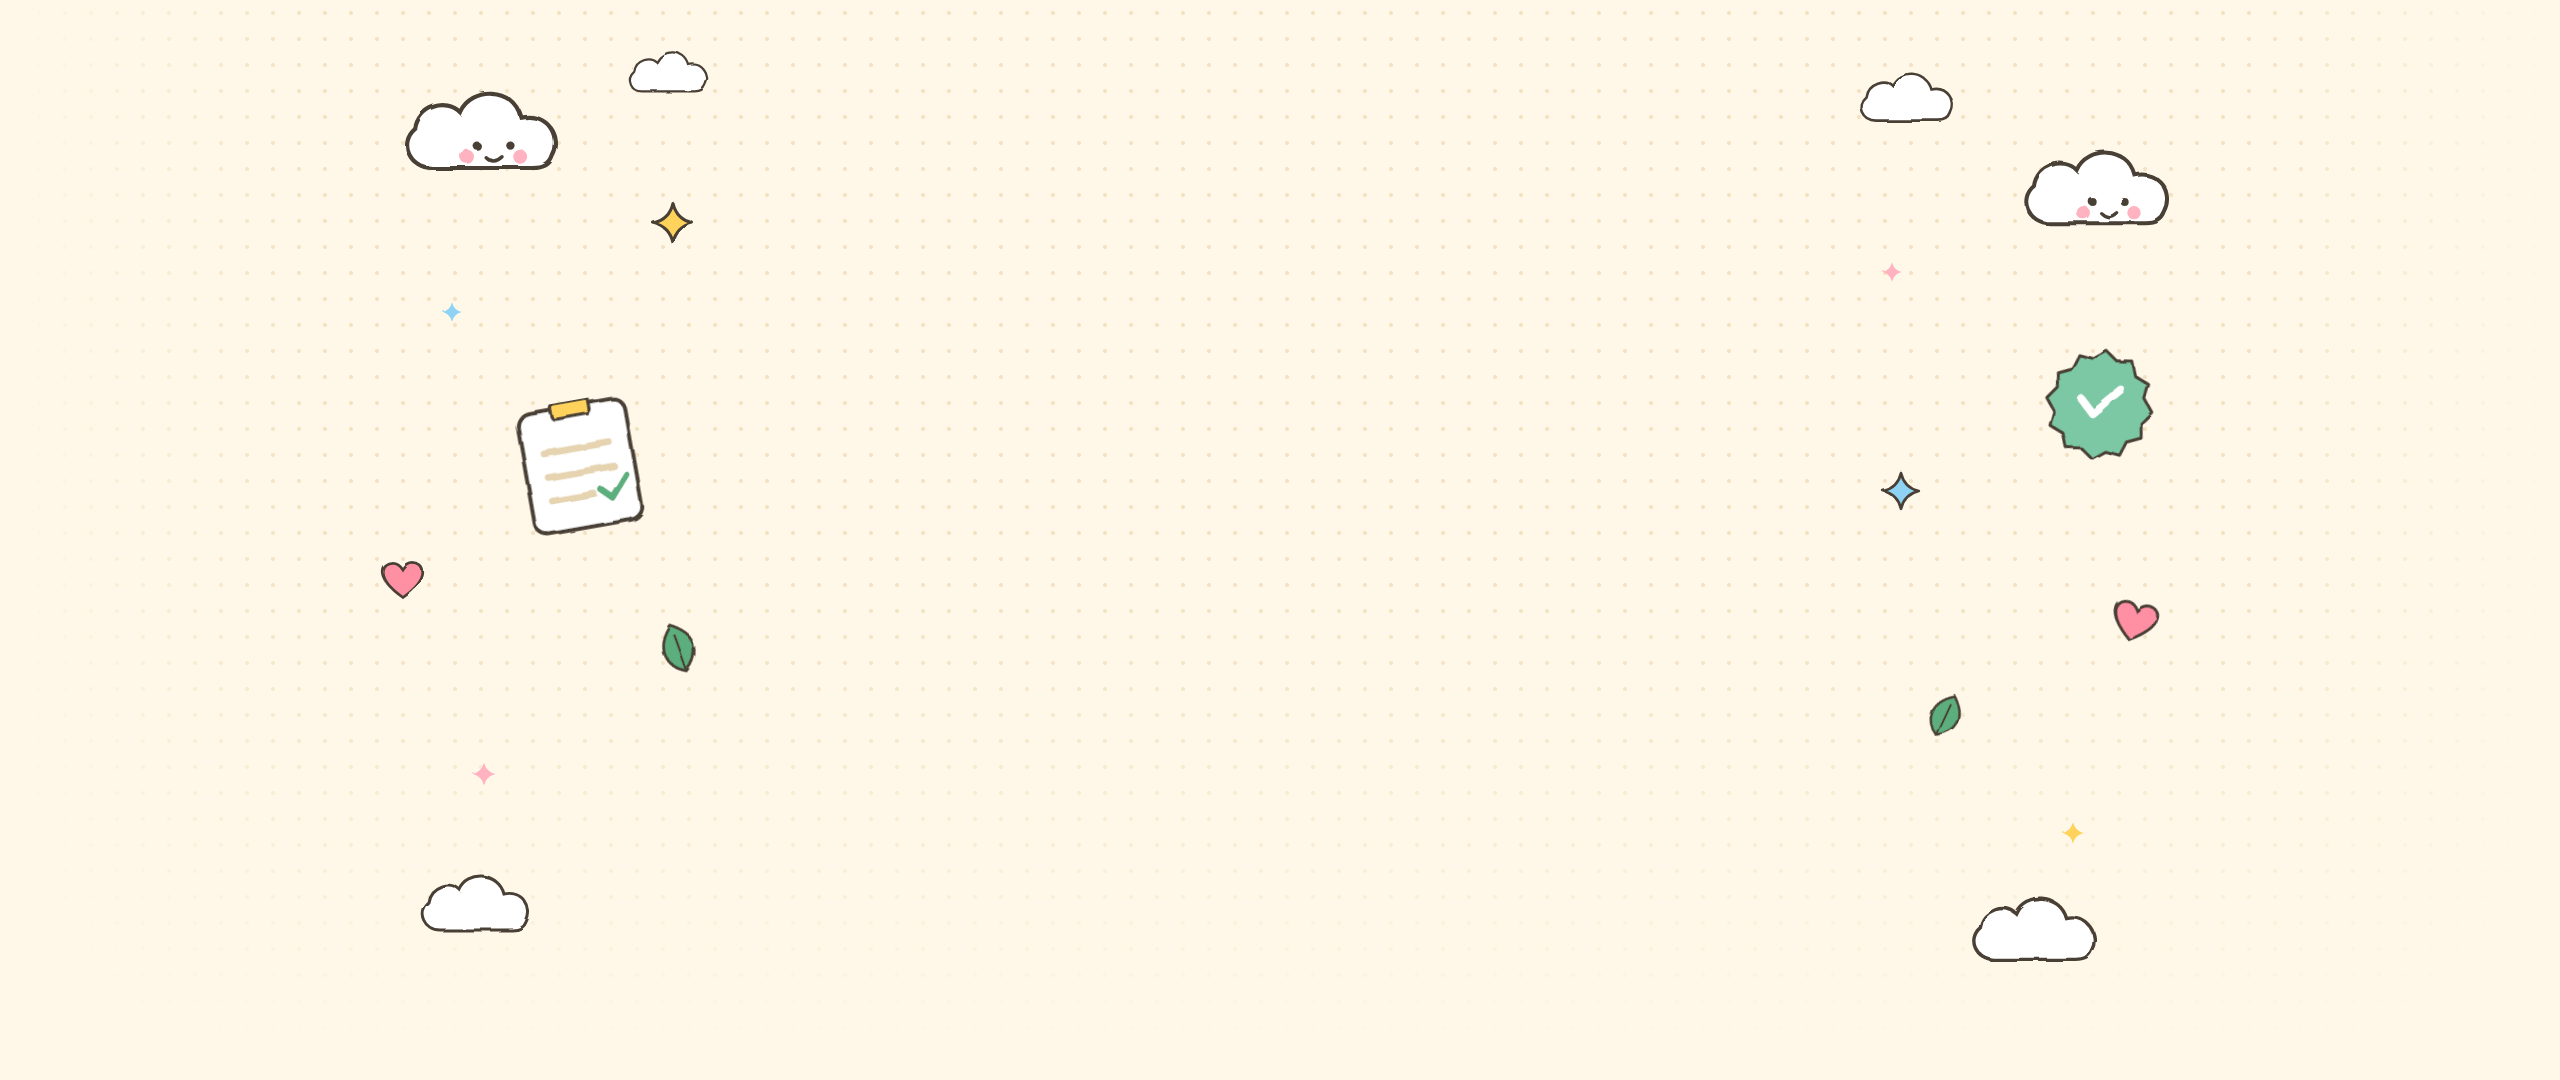
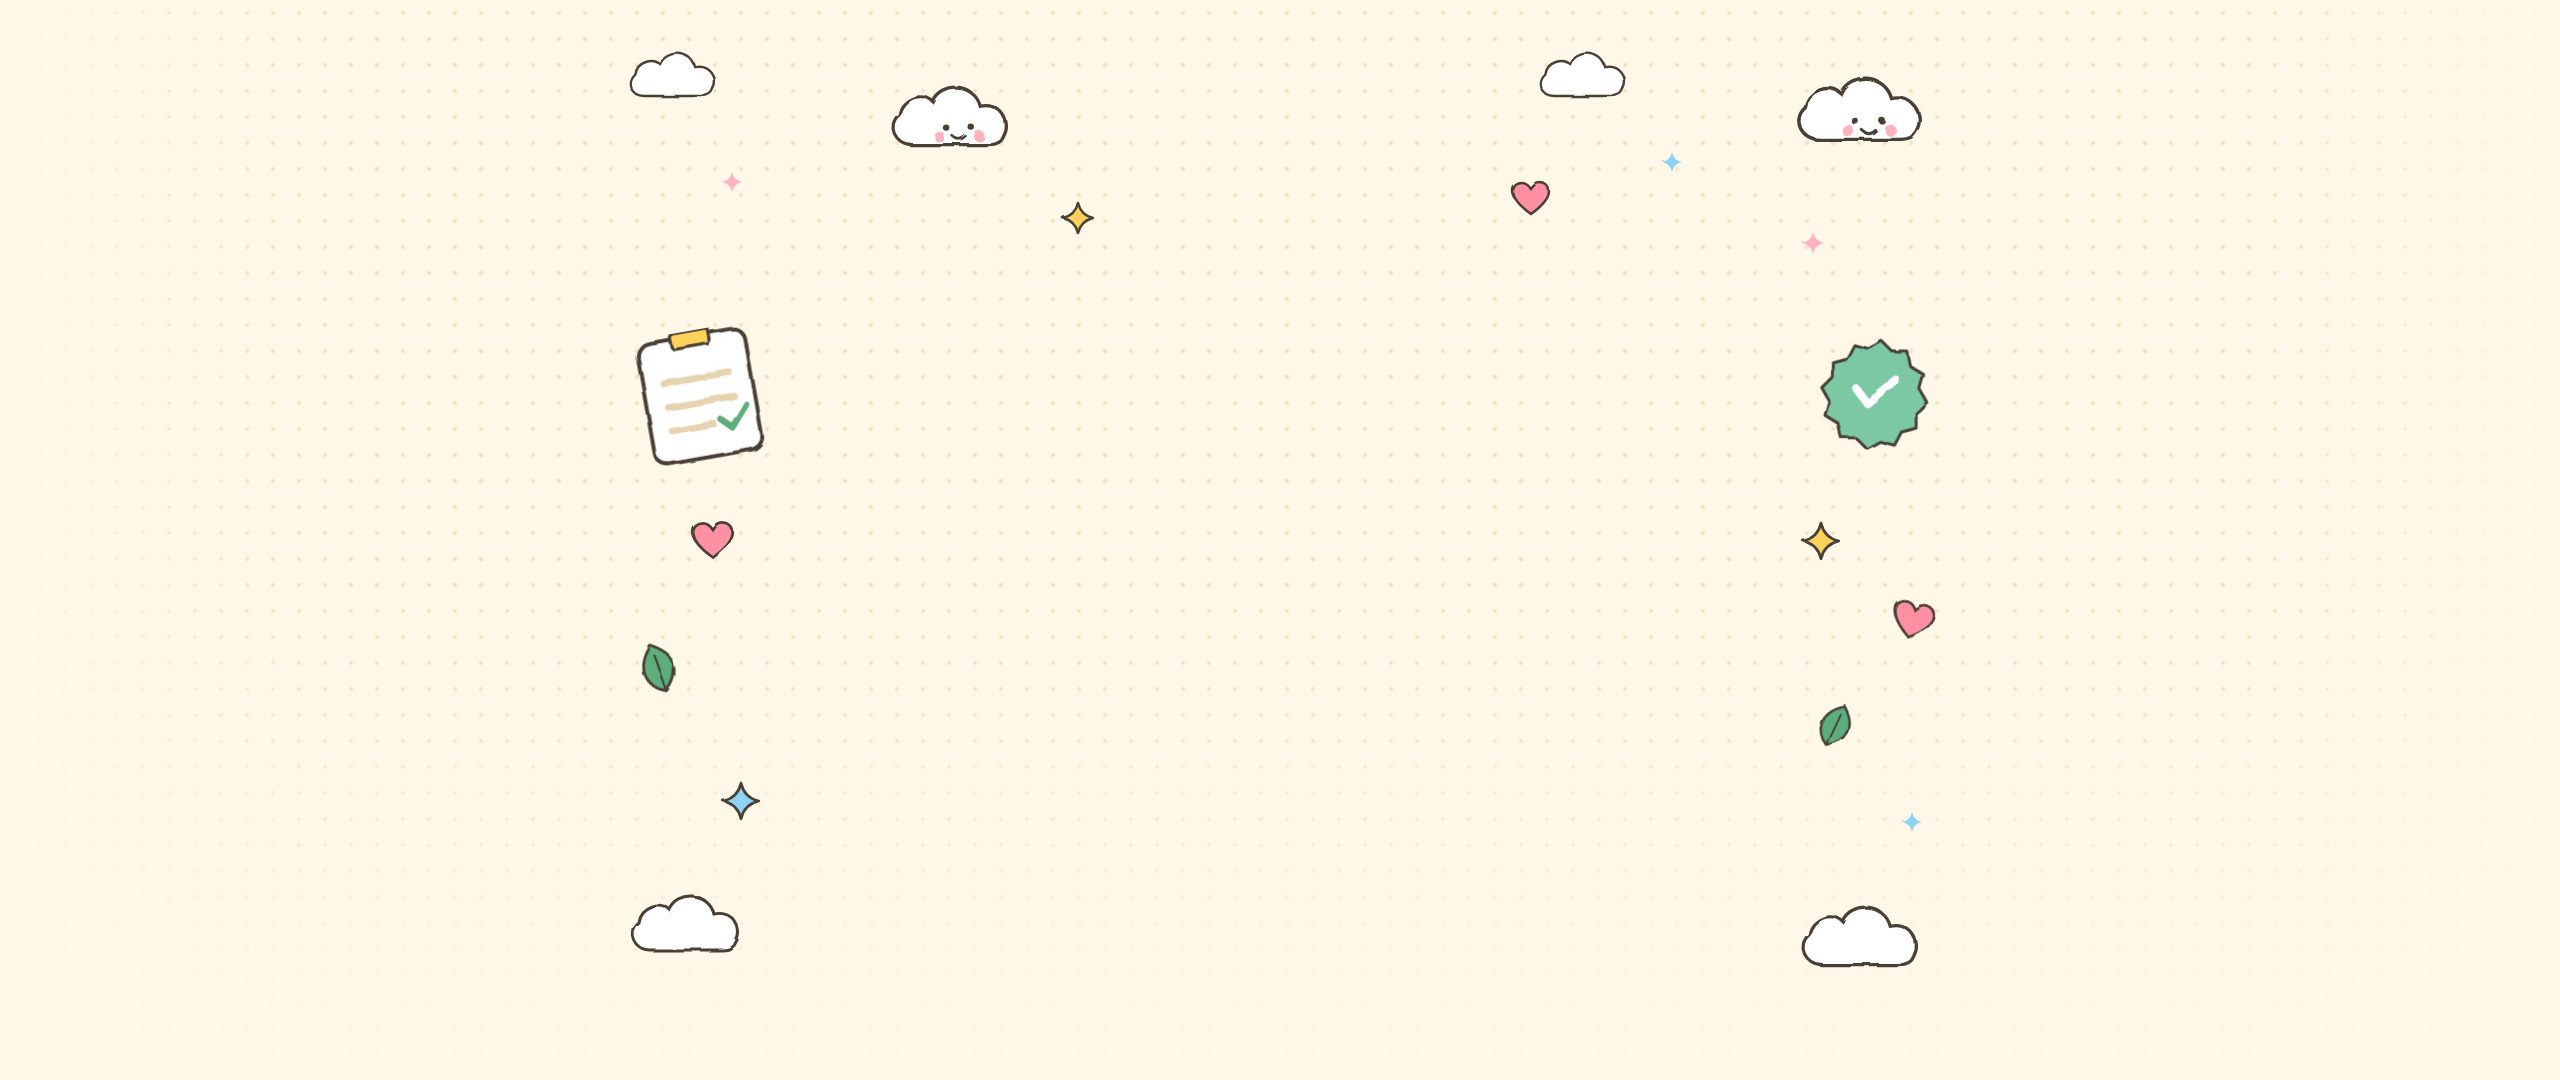
Move skin background decorations closer to center
Claude-Session: https://claude.ai/code/session_019qCDgqakAot5f3EjbXtHsw

diff --git a/blog-theme/bg_top.html b/blog-theme/bg_top.html
@@ -19,24 +19,24 @@ html,body{margin:0}
 <symbol id="note" viewBox="0 0 90 100"><rect x="4" y="4" width="82" height="92" rx="10" fill="#fff" stroke="#4A3F35" stroke-width="3"/><rect x="30" y="0" width="30" height="12" rx="3" fill="#FFD25C" stroke="#4A3F35" stroke-width="2.5"/><path d="M20 36h50M20 54h50M20 72h32" stroke="#E6D3B0" stroke-width="5" stroke-linecap="round"/><path d="M58 70l7 7 13-15" stroke="#5BAE7C" stroke-width="5" fill="none" stroke-linecap="round" stroke-linejoin="round"/></symbol>
 </defs></svg>
 <div class="c"><div class="dots"></div>
- <!-- 왼쪽 여백 (0~477) -->
- <svg class="ico" style="left:390px;top:70px" width="210" height="126"><use href="#cloud"/></svg>
- <svg class="ico" style="left:620px;top:40px" width="110" height="66"><use href="#cloudp"/></svg>
- <svg class="ico" style="left:650px;top:200px" width="44" height="44" fill="#FFD25C"><use href="#star"/></svg>
- <svg class="ico" style="left:440px;top:300px" width="22" height="22" fill="#8FD3F4"><use href="#sp"/></svg>
- <svg class="ico" style="left:520px;top:400px;transform:rotate(-10deg)" width="120" height="133"><use href="#note"/></svg>
- <svg class="ico" style="left:380px;top:560px" width="44" height="40"><use href="#heart"/></svg>
- <svg class="ico" style="left:650px;top:620px;transform:rotate(-20deg)" width="56" height="56"><use href="#leaf"/></svg>
- <svg class="ico" style="left:470px;top:760px" width="26" height="26" fill="#FFB3C1"><use href="#sp"/></svg>
- <svg class="ico" style="left:410px;top:860px" width="150" height="90"><use href="#cloudp"/></svg>
- <!-- 오른쪽 여백 (1443~1920) -->
- <svg class="ico" style="left:1850px;top:60px" width="130" height="78"><use href="#cloudp"/></svg>
- <svg class="ico" style="left:2010px;top:130px" width="200" height="120"><use href="#cloud"/></svg>
- <svg class="ico" style="left:1880px;top:260px" width="22" height="22" fill="#FFB3C1"><use href="#sp"/></svg>
- <svg class="ico" style="left:2040px;top:340px;transform:rotate(8deg)" width="120" height="120"><use href="#badge"/></svg>
- <svg class="ico" style="left:1880px;top:470px" width="40" height="40" fill="#8FD3F4"><use href="#star"/></svg>
- <svg class="ico" style="left:2110px;top:600px;transform:rotate(15deg)" width="48" height="44"><use href="#heart"/></svg>
- <svg class="ico" style="left:1920px;top:690px;transform:rotate(25deg)" width="50" height="50"><use href="#leaf"/></svg>
- <svg class="ico" style="left:2060px;top:820px" width="24" height="24" fill="#FFD25C"><use href="#sp"/></svg>
- <svg class="ico" style="left:1960px;top:880px" width="170" height="102"><use href="#cloudp"/></svg>
+ <svg class="ico" style="left:880px;top:70px;" width="160" height="96"><use href="#cloud"/></svg>
+ <svg class="ico" style="left:1060px;top:200px;" width="34" height="34" fill="#FFD25C"><use href="#star"/></svg>
+ <svg class="ico" style="left:1530px;top:40px;" width="120" height="72"><use href="#cloudp"/></svg>
+ <svg class="ico" style="left:1510px;top:180px;" width="40" height="36"><use href="#heart"/></svg>
+ <svg class="ico" style="left:1660px;top:150px;" width="22" height="22" fill="#8FD3F4"><use href="#sp"/></svg>
+ <svg class="ico" style="left:620px;top:40px;" width="120" height="72"><use href="#cloudp"/></svg>
+ <svg class="ico" style="left:720px;top:170px;" width="22" height="22" fill="#FFB3C1"><use href="#sp"/></svg>
+ <svg class="ico" style="left:640px;top:330px;transform:rotate(-10deg)" width="120" height="133"><use href="#note"/></svg>
+ <svg class="ico" style="left:690px;top:520px;" width="44" height="40"><use href="#heart"/></svg>
+ <svg class="ico" style="left:630px;top:640px;transform:rotate(-20deg)" width="56" height="56"><use href="#leaf"/></svg>
+ <svg class="ico" style="left:720px;top:780px;" width="40" height="40" fill="#8FD3F4"><use href="#star"/></svg>
+ <svg class="ico" style="left:620px;top:880px;" width="150" height="90"><use href="#cloudp"/></svg>
+ <svg class="ico" style="left:1785px;top:60px;" width="170" height="102"><use href="#cloud"/></svg>
+ <svg class="ico" style="left:1800px;top:230px;" width="24" height="24" fill="#FFB3C1"><use href="#sp"/></svg>
+ <svg class="ico" style="left:1815px;top:330px;transform:rotate(8deg)" width="120" height="120"><use href="#badge"/></svg>
+ <svg class="ico" style="left:1800px;top:520px;" width="40" height="40" fill="#FFD25C"><use href="#star"/></svg>
+ <svg class="ico" style="left:1890px;top:600px;transform:rotate(15deg)" width="44" height="40"><use href="#heart"/></svg>
+ <svg class="ico" style="left:1810px;top:700px;transform:rotate(25deg)" width="50" height="50"><use href="#leaf"/></svg>
+ <svg class="ico" style="left:1900px;top:810px;" width="22" height="22" fill="#8FD3F4"><use href="#sp"/></svg>
+ <svg class="ico" style="left:1790px;top:890px;" width="160" height="96"><use href="#cloudp"/></svg>
 </div></body></html>
